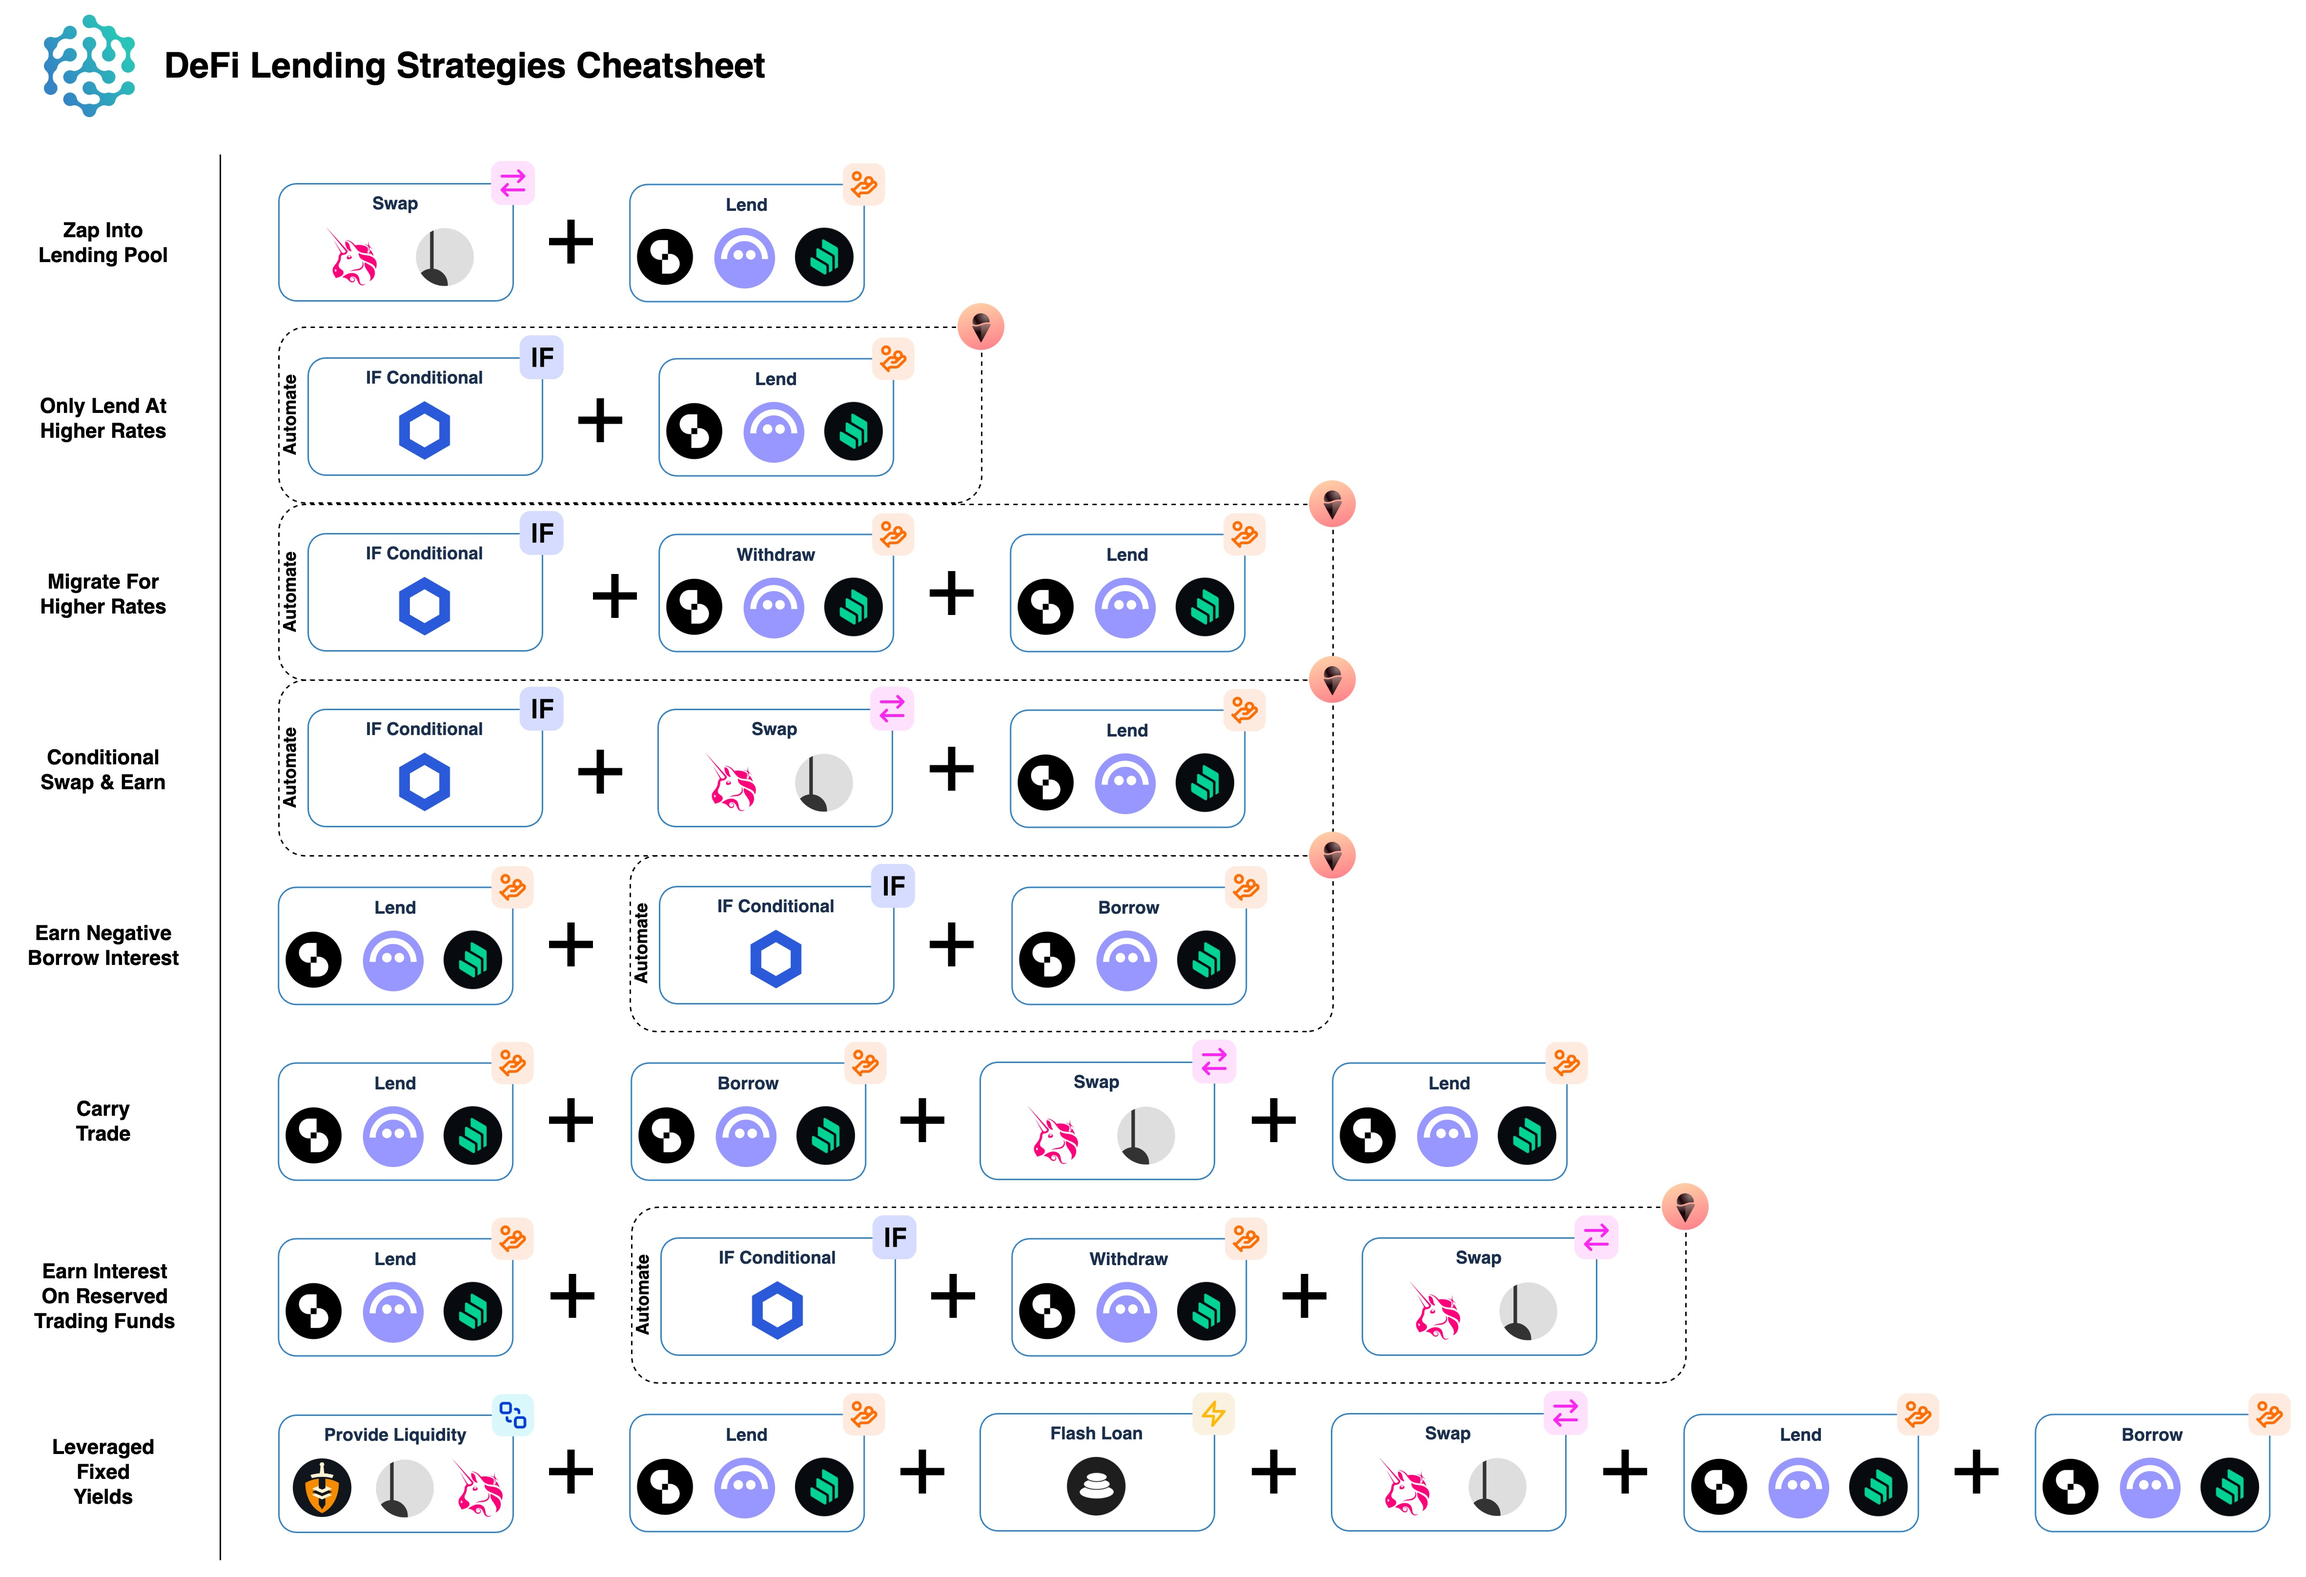
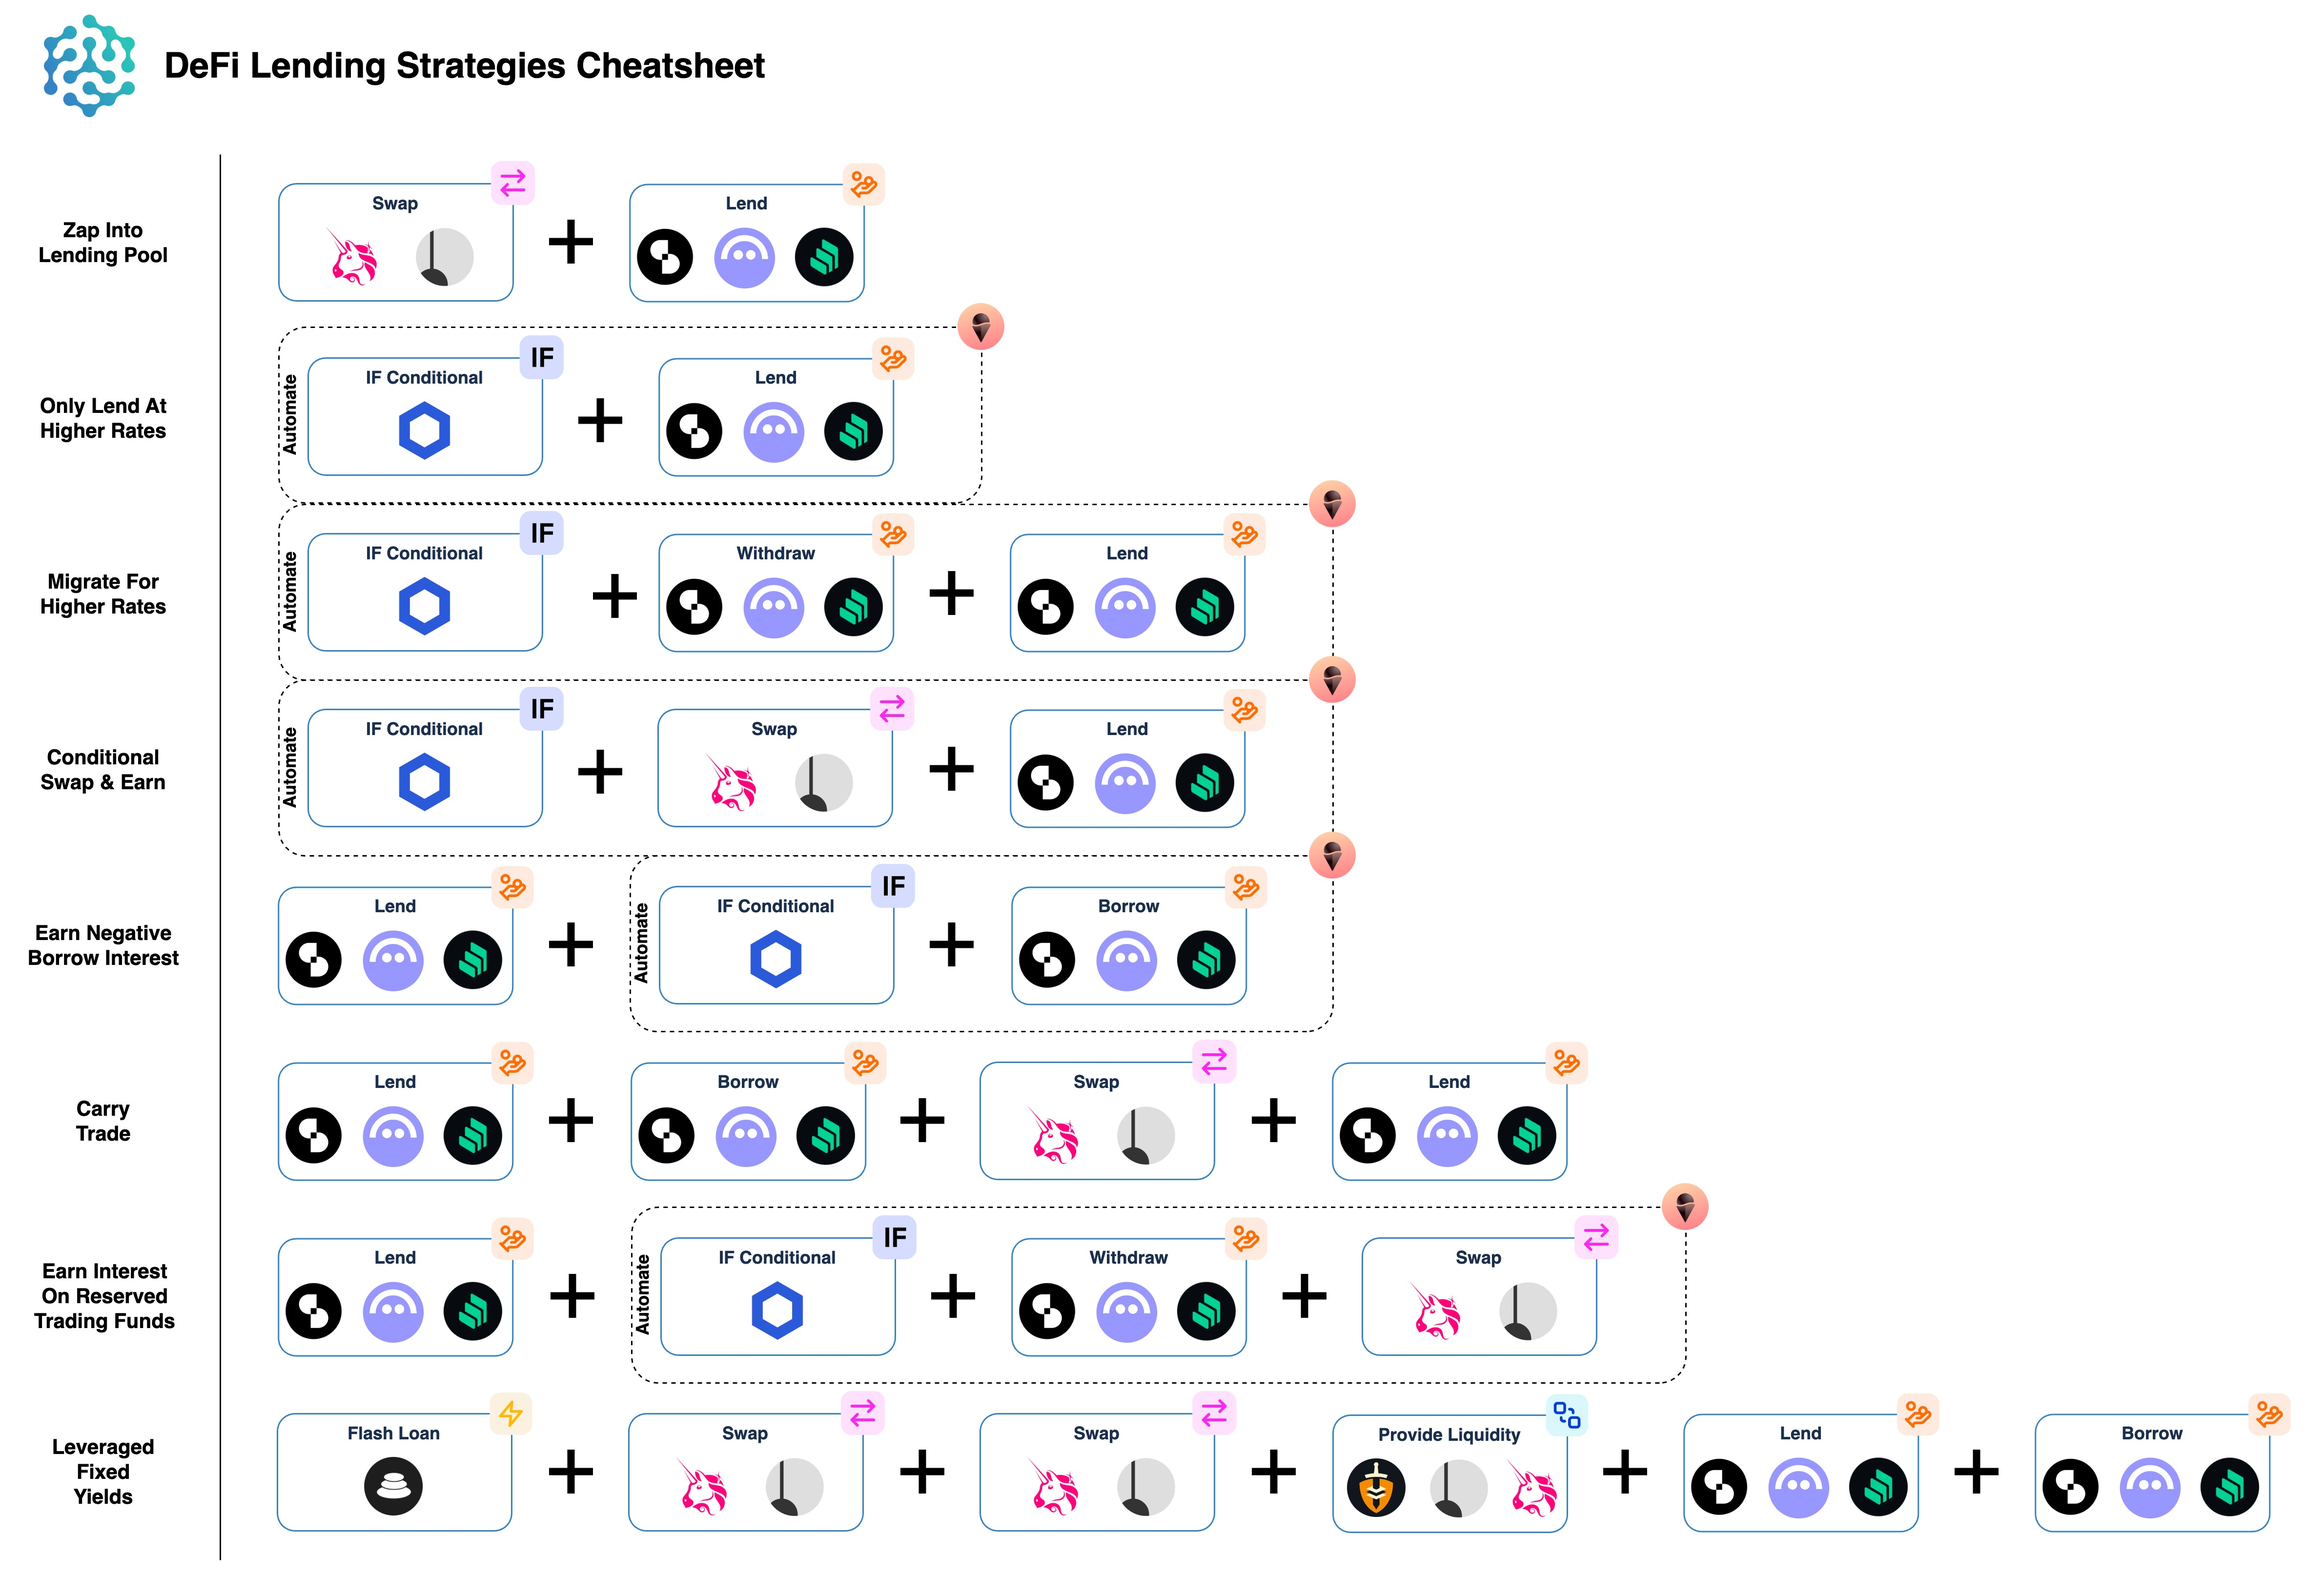
GITBOOK-382: Update Leveraged Fixed Yields Strat

diff --git a/getting-started/strategy-cheatsheet/flash-loan-cheatsheet.md b/getting-started/strategy-cheatsheet/flash-loan-cheatsheet.md
@@ -4,7 +4,7 @@
 
 Strategies that utilizes flash loans to get access to uncollateralized short term liquidity.
 
-<figure><img src="../../.gitbook/assets/Cheatsheet - Flash Loan.jpg" alt=""><figcaption></figcaption></figure>
+<figure><img src="../../.gitbook/assets/Cheatsheet - Flash Loan (3).jpg" alt=""><figcaption></figcaption></figure>
 
 {% hint style="info" %}
 [**Flash Loan Building Block**](../../factor-building-blocks/flash-loan/)
